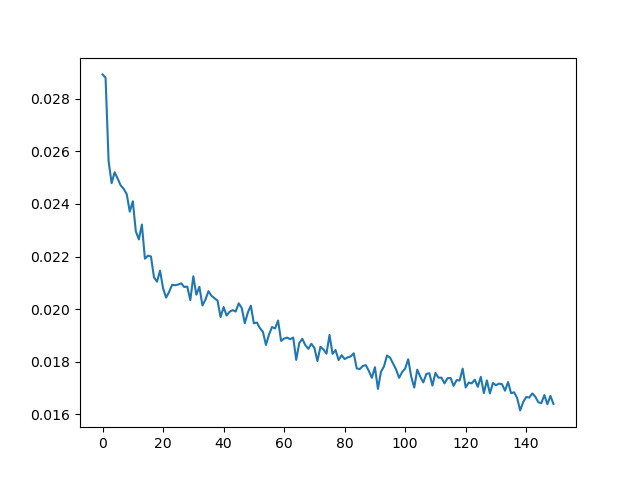
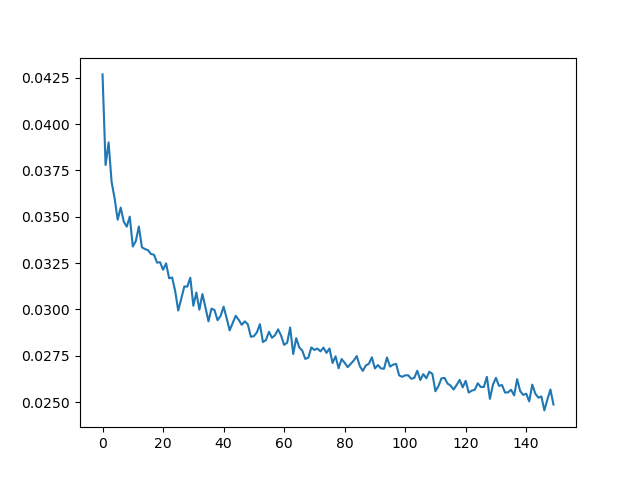
new dataset v2

diff --git a/cluster.py b/cluster.py
@@ -104,20 +104,20 @@ class Clustering():
         pred = kmeans.predict(normed_X)
 
         #plot kmeans for further checkup
-        # self.plot_kmeans(normed_X, pred)
+        self.plot_kmeans(normed_X, pred)
 
-        #get centroids for further analysis: went differently than expected due to too complicated clustering
-        #difficult to perform clustering: time to use tf-idf or Mutual information
-        centers_decoded = self.find_centers_kmeans(kmeans,sentences,num_clusters)
-
-        #decode clustered sentences to plain text
-        cluster_dict = self.cluster_decode(X, pred, num_clusters)
-
-        with open('centers_decoded.json', 'w') as f:
-            json.dump(centers_decoded, f)
-
-        with open('sent_cluster.json', 'w') as f:
-            json.dump(cluster_dict, f)
+        # #get centroids for further analysis: went differently than expected due to too complicated clustering
+        # #difficult to perform clustering: time to use tf-idf or Mutual information
+        # centers_decoded = self.find_centers_kmeans(kmeans,sentences,num_clusters)
+        #
+        # #decode clustered sentences to plain text
+        # cluster_dict = self.cluster_decode(X, pred, num_clusters)
+        #
+        # with open('centers_decoded.json', 'w') as f:
+        #     json.dump(centers_decoded, f)
+        #
+        # with open('sent_cluster.json', 'w') as f:
+        #     json.dump(cluster_dict, f)
 
     # perform elbow method to find optimal k: returns WSS score for k values from 1 to kmax
     def do_elbow(self, sentences, kmax):
@@ -125,7 +125,9 @@ class Clustering():
         normed_X = normalize(X, axis=1, norm='l1')
 
         sse = []
+        start = time.time()
         for k in range(1, kmax + 1):
+            print('finding the optimum cluster number ... {}/{} | running time: {} seconds'.format(k,kmax,round(time.time()-start,4)))
             kmeans = KMeans(n_clusters=k).fit(normed_X)
             centroids = kmeans.cluster_centers_
             pred_clusters = kmeans.predict(normed_X)
@@ -150,8 +152,10 @@ class Clustering():
         normed_X = normalize(X, axis=1, norm='l1')
 
         sil = []
+        start = time.time()
         # dissimilarity would not be defined for a single cluster, thus, minimum number of clusters should be 2
         for k in range(2, kmax + 1):
+            print('finding the optimum cluster number ... {}/{} | running time: {} seconds'.format(k,kmax,round(time.time()-start,4)))
             kmeans = KMeans(n_clusters=k).fit(normed_X)
             labels = kmeans.labels_
             sil.append(silhouette_score(normed_X, labels, metric='euclidean'))
@@ -394,18 +398,12 @@ class UtilityFunct():
 
         return formatted
 
-
-"""""""""""""use alice clauses for experiment"""""""""""""
+"""""""""""init knn module and encode clauses"""""""""""
 knn = Clustering()
-# alice_csv = pd.read_csv('training_data/alice/data_alice.csv')
-# alice_clause = alice_csv['clause'].to_list()
-#
-# uf = UtilityFunct()
-#
-# sentences = uf.split_sentences(alice_clause)
-#
+# with open('clauses_v2.pkl', 'rb') as f:
+#     sentences = pickle.load(f)
 # knn.do_sentenceBERT(sentences)
-""""""""""""""""""""""""""""""""""""""""""""""""""""""""""""""
+""""""""""""""""""""""""""""""""""""""""""""""""""""""""
 
 """""""""load embedded sentences to be processed"""""""""
 with open('stnce_embedding.json', 'r') as f:
@@ -417,9 +415,9 @@ embedded_sentences = list(sent_dict.values())
 """"""""""""""""""""""""""""""""""""""""""""""""""""""""
 
 """""""""""""perform k-means clustering"""""""""""""
-knn.do_kmeans(embedded_sentences, 50)
+knn.do_kmeans(embedded_sentences, 100)
 # knn.do_elbow(embedded_sentences,150)
-# knn.do_silhoulette(embedded_sentences,100)
+# knn.do_silhoulette(embedded_sentences,150)
 """"""""""""""""""""""""""""""""""""""""""""""""""
 
 """""""""""""""""evaluate k-means"""""""""""""""""

diff --git a/prepare_data.py b/prepare_data.py
@@ -1,0 +1,23 @@
+import glob
+from pathlib import Path
+import pickle
+
+dir = 'ppdocs'
+paths = Path(dir).rglob('*.txt')
+num_paths = len(glob.glob('google_places_api_data/*'))
+all_clauses = []
+for path in paths:
+    with open(path, 'r') as f:
+        text = f.read().replace('-', ' ').replace('!', '').replace('[', ' ').replace(']', ' ').replace(':', ' ')\
+                .replace(';', ' ').replace('(', ' ').replace(')', ' ').replace('_', ' ').replace('   ', ' ')\
+                .replace('  ', ' ').replace('    ', ' ').replace('. ', '.').split('\n')
+        text.remove('')
+        for t in text:
+            if t == '':
+                continue
+            if len(t) <= 3:
+                continue
+            all_clauses.append(t)
+
+with open('clauses_v2.pkl', 'wb') as f:
+    pickle.dump(all_clauses, f)
